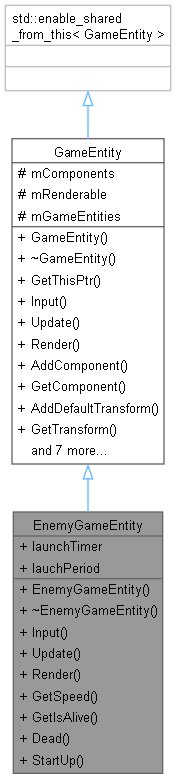
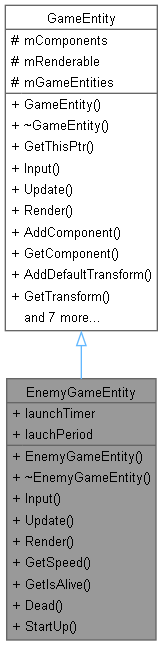
Hierachy.jpg

Changed region(s): [[0.0, 0.0, 0.9816, 1.0], [0.6442, 0.3411, 0.7669, 0.4341], [0.7975, 0.4031, 0.8282, 0.4341]]

diff --git a/hierarchy.html b/hierarchy.html
@@ -77,24 +77,23 @@ $(function() {
 <div class="textblock">
 <p><a href="inherits.html">Go to the graphical class hierarchy</a></p>
 This inheritance list is sorted roughly, but not completely, alphabetically:</div><div class="directory">
-<div class="levels">[detail level <span onclick="javascript:dynsection.toggleLevel(1);">1</span><span onclick="javascript:dynsection.toggleLevel(2);">2</span><span onclick="javascript:dynsection.toggleLevel(3);">3</span>]</div><table class="directory">
+<div class="levels">[detail level <span onclick="javascript:dynsection.toggleLevel(1);">1</span><span onclick="javascript:dynsection.toggleLevel(2);">2</span>]</div><table class="directory">
 <tr id="row_0_" class="even"><td class="entry"><span style="width:0px;display:inline-block;">&#160;</span><span id="arr_0_" class="arrow" onclick="dynsection.toggleFolder('0_')">&#9660;</span><span class="icona"><span class="icon">C</span></span><a class="el" href="struct_component.html" target="_self">Component</a></td><td class="desc">Abstract base class for components in a game entity-component system </td></tr>
 <tr id="row_0_0_" class="odd"><td class="entry"><span style="width:32px;display:inline-block;">&#160;</span><span class="icona"><span class="icon">C</span></span><a class="el" href="struct_collision2_d_component.html" target="_self">Collision2DComponent</a></td><td class="desc"><a class="el" href="struct_component.html" title="Abstract base class for components in a game entity-component system.">Component</a> for handling 2D collisions in a game environment </td></tr>
 <tr id="row_0_1_" class="even"><td class="entry"><span style="width:32px;display:inline-block;">&#160;</span><span class="icona"><span class="icon">C</span></span><a class="el" href="struct_input_component.html" target="_self">InputComponent</a></td><td class="desc"><a class="el" href="struct_component.html" title="Abstract base class for components in a game entity-component system.">Component</a> for handling input for a game entity </td></tr>
 <tr id="row_0_2_" class="odd"><td class="entry"><span style="width:32px;display:inline-block;">&#160;</span><span class="icona"><span class="icon">C</span></span><a class="el" href="struct_texture_component.html" target="_self">TextureComponent</a></td><td class="desc">Manages a texture for a game entity, handling its loading, updating, and rendering </td></tr>
 <tr id="row_0_3_" class="even"><td class="entry"><span style="width:32px;display:inline-block;">&#160;</span><span class="icona"><span class="icon">C</span></span><a class="el" href="struct_transform_component.html" target="_self">TransformComponent</a></td><td class="desc">Manages the position, size, and bounding rectangle of a game entity </td></tr>
-<tr id="row_1_" class="odd"><td class="entry"><span style="width:0px;display:inline-block;">&#160;</span><span id="arr_1_" class="arrow" onclick="dynsection.toggleFolder('1_')">&#9660;</span><span class="icona"><span class="icon">C</span></span><b>std::enable_shared_from_this</b></td><td class="desc"></td></tr>
-<tr id="row_1_0_" class="even"><td class="entry"><span style="width:16px;display:inline-block;">&#160;</span><span id="arr_1_0_" class="arrow" onclick="dynsection.toggleFolder('1_0_')">&#9660;</span><span class="icona"><span class="icon">C</span></span><a class="el" href="struct_game_entity.html" target="_self">GameEntity</a></td><td class="desc">Base class for all game entities, supporting components and common game object functions </td></tr>
-<tr id="row_1_0_0_" class="odd"><td class="entry"><span style="width:48px;display:inline-block;">&#160;</span><span class="icona"><span class="icon">C</span></span><a class="el" href="struct_enemy_game_entity.html" target="_self">EnemyGameEntity</a></td><td class="desc">Represents an enemy in the game, handling its behavior, rendering, and state </td></tr>
-<tr id="row_1_0_1_" class="even"><td class="entry"><span style="width:48px;display:inline-block;">&#160;</span><span class="icona"><span class="icon">C</span></span><a class="el" href="struct_player_game_entity.html" target="_self">PlayerGameEntity</a></td><td class="desc">Represents the player entity in the game, handling player-specific behavior </td></tr>
-<tr id="row_1_0_2_" class="odd"><td class="entry"><span style="width:48px;display:inline-block;">&#160;</span><span class="icona"><span class="icon">C</span></span><a class="el" href="struct_projectile.html" target="_self">Projectile</a></td><td class="desc">Represents a projectile in the game, handling its movement, rendering, and interactions </td></tr>
-<tr id="row_2_" class="even"><td class="entry"><span style="width:16px;display:inline-block;">&#160;</span><span class="icona"><span class="icon">C</span></span><a class="el" href="class_game_config_editor_1_1_game_config_editor.html" target="_self">GameConfigEditor.GameConfigEditor</a></td><td class="desc"></td></tr>
-<tr id="row_3_" class="odd"><td class="entry"><span style="width:16px;display:inline-block;">&#160;</span><span class="icona"><span class="icon">C</span></span><a class="el" href="struct_game_engine.html" target="_self">GameEngine</a></td><td class="desc">Main engine for managing game state, entities, rendering, and game loop </td></tr>
-<tr id="row_4_" class="even"><td class="entry"><span style="width:16px;display:inline-block;">&#160;</span><span class="icona"><span class="icon">C</span></span><a class="el" href="struct_resource_manager.html" target="_self">ResourceManager</a></td><td class="desc">Manages game resources, specifically textures, ensuring that each texture is loaded and managed efficiently </td></tr>
-<tr id="row_5_" class="odd"><td class="entry"><span style="width:16px;display:inline-block;">&#160;</span><span class="icona"><span class="icon">C</span></span><a class="el" href="struct_scene.html" target="_self">Scene</a></td><td class="desc">Represents a single scene in the game, handling its entities, lifecycle, and rendering </td></tr>
-<tr id="row_6_" class="even"><td class="entry"><span style="width:16px;display:inline-block;">&#160;</span><span class="icona"><span class="icon">C</span></span><a class="el" href="class_game_1_1_shooter_game.html" target="_self">Game.ShooterGame</a></td><td class="desc"></td></tr>
-<tr id="row_7_" class="odd"><td class="entry"><span style="width:16px;display:inline-block;">&#160;</span><span class="icona"><span class="icon">C</span></span><a class="el" href="struct_texture_functor_deleter.html" target="_self">TextureFunctorDeleter</a></td><td class="desc">Functor for properly deallocating SDL textures </td></tr>
-<tr id="row_8_" class="even"><td class="entry"><span style="width:16px;display:inline-block;">&#160;</span><span class="icona"><span class="icon">C</span></span><a class="el" href="class_tile_map_editor_1_1_tile_map_editor.html" target="_self">TileMapEditor.TileMapEditor</a></td><td class="desc"></td></tr>
+<tr id="row_1_" class="odd"><td class="entry"><span style="width:16px;display:inline-block;">&#160;</span><span class="icona"><span class="icon">C</span></span><a class="el" href="class_game_config_editor_1_1_game_config_editor.html" target="_self">GameConfigEditor.GameConfigEditor</a></td><td class="desc"></td></tr>
+<tr id="row_2_" class="even"><td class="entry"><span style="width:16px;display:inline-block;">&#160;</span><span class="icona"><span class="icon">C</span></span><a class="el" href="struct_game_engine.html" target="_self">GameEngine</a></td><td class="desc">Main engine for managing game state, entities, rendering, and game loop </td></tr>
+<tr id="row_3_" class="odd"><td class="entry"><span style="width:0px;display:inline-block;">&#160;</span><span id="arr_3_" class="arrow" onclick="dynsection.toggleFolder('3_')">&#9660;</span><span class="icona"><span class="icon">C</span></span><a class="el" href="struct_game_entity.html" target="_self">GameEntity</a></td><td class="desc">Base class for all game entities, supporting components and common game object functions </td></tr>
+<tr id="row_3_0_" class="even"><td class="entry"><span style="width:32px;display:inline-block;">&#160;</span><span class="icona"><span class="icon">C</span></span><a class="el" href="struct_enemy_game_entity.html" target="_self">EnemyGameEntity</a></td><td class="desc">Represents an enemy in the game, handling its behavior, rendering, and state </td></tr>
+<tr id="row_3_1_" class="odd"><td class="entry"><span style="width:32px;display:inline-block;">&#160;</span><span class="icona"><span class="icon">C</span></span><a class="el" href="struct_player_game_entity.html" target="_self">PlayerGameEntity</a></td><td class="desc">Represents the player entity in the game, handling player-specific behavior </td></tr>
+<tr id="row_3_2_" class="even"><td class="entry"><span style="width:32px;display:inline-block;">&#160;</span><span class="icona"><span class="icon">C</span></span><a class="el" href="struct_projectile.html" target="_self">Projectile</a></td><td class="desc">Represents a projectile in the game, handling its movement, rendering, and interactions </td></tr>
+<tr id="row_4_" class="odd"><td class="entry"><span style="width:16px;display:inline-block;">&#160;</span><span class="icona"><span class="icon">C</span></span><a class="el" href="struct_resource_manager.html" target="_self">ResourceManager</a></td><td class="desc">Manages game resources, specifically textures, ensuring that each texture is loaded and managed efficiently </td></tr>
+<tr id="row_5_" class="even"><td class="entry"><span style="width:16px;display:inline-block;">&#160;</span><span class="icona"><span class="icon">C</span></span><a class="el" href="struct_scene.html" target="_self">Scene</a></td><td class="desc">Represents a single scene in the game, handling its entities, lifecycle, and rendering </td></tr>
+<tr id="row_6_" class="odd"><td class="entry"><span style="width:16px;display:inline-block;">&#160;</span><span class="icona"><span class="icon">C</span></span><a class="el" href="class_game_1_1_shooter_game.html" target="_self">Game.ShooterGame</a></td><td class="desc"></td></tr>
+<tr id="row_7_" class="even"><td class="entry"><span style="width:16px;display:inline-block;">&#160;</span><span class="icona"><span class="icon">C</span></span><a class="el" href="struct_texture_functor_deleter.html" target="_self">TextureFunctorDeleter</a></td><td class="desc">Functor for properly deallocating SDL textures </td></tr>
+<tr id="row_8_" class="odd"><td class="entry"><span style="width:16px;display:inline-block;">&#160;</span><span class="icona"><span class="icon">C</span></span><a class="el" href="class_tile_map_editor_1_1_tile_map_editor.html" target="_self">TileMapEditor.TileMapEditor</a></td><td class="desc"></td></tr>
 </table>
 </div><!-- directory -->
 </div><!-- contents -->

diff --git a/inherits.html b/inherits.html
@@ -105,27 +105,25 @@ $(function() {
 <area shape="rect" href="struct_game_engine.html" title="Main engine for managing game state, entities, rendering, and game loop." alt="" coords="5,5,102,32"/>
 </map>
 </td></tr>
-<tr><td><img src="inherit_graph_4.png" border="0" usemap="#a_resource_manager" alt=""/>
+<tr><td><img src="inherit_graph_4.png" border="0" usemap="#a_game_entity" alt=""/>
+<map name="a_game_entity" id="a_game_entity">
+<area shape="rect" href="struct_game_entity.html" title="Base class for all game entities, supporting components and common game object functions." alt="" coords="5,56,96,83"/>
+<area shape="rect" href="struct_enemy_game_entity.html" title="Represents an enemy in the game, handling its behavior, rendering, and state." alt="" coords="144,5,275,32"/>
+<area shape="poly" title=" " alt="" coords="108,48,164,30,166,35,110,53"/>
+<area shape="rect" href="struct_player_game_entity.html" title="Represents the player entity in the game, handling player&#45;specific behavior." alt="" coords="146,56,273,83"/>
+<area shape="poly" title=" " alt="" coords="111,67,145,67,145,72,111,72"/>
+<area shape="rect" href="struct_projectile.html" title="Represents a projectile in the game, handling its movement, rendering, and interactions." alt="" coords="172,107,247,133"/>
+<area shape="poly" title=" " alt="" coords="110,85,172,106,171,111,108,90"/>
+</map>
+</td></tr>
+<tr><td><img src="inherit_graph_5.png" border="0" usemap="#a_resource_manager" alt=""/>
 <map name="a_resource_manager" id="a_resource_manager">
 <area shape="rect" href="struct_resource_manager.html" title="Manages game resources, specifically textures, ensuring that each texture is loaded and managed effic..." alt="" coords="5,5,132,32"/>
 </map>
 </td></tr>
-<tr><td><img src="inherit_graph_5.png" border="0" usemap="#a_scene" alt=""/>
+<tr><td><img src="inherit_graph_6.png" border="0" usemap="#a_scene" alt=""/>
 <map name="a_scene" id="a_scene">
 <area shape="rect" href="struct_scene.html" title="Represents a single scene in the game, handling its entities, lifecycle, and rendering." alt="" coords="5,5,64,32"/>
-</map>
-</td></tr>
-<tr><td><img src="inherit_graph_6.png" border="0" usemap="#astd_1_1enable__shared__from__this" alt=""/>
-<map name="astd_1_1enable__shared__from__this" id="astd_1_1enable__shared__from__this">
-<area shape="rect" title=" " alt="" coords="5,48,137,91"/>
-<area shape="rect" href="struct_game_entity.html" title="Base class for all game entities, supporting components and common game object functions." alt="" coords="185,56,275,83"/>
-<area shape="poly" title=" " alt="" coords="152,67,184,67,184,72,152,72"/>
-<area shape="rect" href="struct_enemy_game_entity.html" title="Represents an enemy in the game, handling its behavior, rendering, and state." alt="" coords="323,5,454,32"/>
-<area shape="poly" title=" " alt="" coords="288,48,344,30,345,35,289,53"/>
-<area shape="rect" href="struct_player_game_entity.html" title="Represents the player entity in the game, handling player&#45;specific behavior." alt="" coords="325,56,452,83"/>
-<area shape="poly" title=" " alt="" coords="291,67,325,67,325,72,291,72"/>
-<area shape="rect" href="struct_projectile.html" title="Represents a projectile in the game, handling its movement, rendering, and interactions." alt="" coords="351,107,426,133"/>
-<area shape="poly" title=" " alt="" coords="289,85,352,106,350,111,287,90"/>
 </map>
 </td></tr>
 <tr><td><img src="inherit_graph_7.png" border="0" usemap="#a_texture_functor_deleter" alt=""/>

diff --git a/struct_game_entity.html b/struct_game_entity.html
@@ -88,15 +88,13 @@ Inheritance diagram for GameEntity:</div>
 <div class="dyncontent">
 <div class="center"><img src="struct_game_entity__inherit__graph.png" border="0" usemap="#a_game_entity_inherit__map" alt="Inheritance graph"/></div>
 <map name="a_game_entity_inherit__map" id="a_game_entity_inherit__map">
-<area shape="rect" title="Base class for all game entities, supporting components and common game object functions." alt="" coords="176,139,328,464"/>
-<area shape="rect" href="struct_enemy_game_entity.html" title="Represents an enemy in the game, handling its behavior, rendering, and state." alt="" coords="5,512,155,773"/>
-<area shape="poly" title=" " alt="" coords="172,467,148,513,143,511,167,465"/>
-<area shape="rect" href="struct_player_game_entity.html" title="Represents the player entity in the game, handling player&#45;specific behavior." alt="" coords="179,565,325,720"/>
-<area shape="poly" title=" " alt="" coords="255,479,255,566,249,566,249,479"/>
-<area shape="rect" href="struct_projectile.html" title="Represents a projectile in the game, handling its movement, rendering, and interactions." alt="" coords="349,523,441,763"/>
-<area shape="poly" title=" " alt="" coords="328,476,351,532,346,534,323,478"/>
-<area shape="rect" title=" " alt="" coords="169,5,335,91"/>
-<area shape="poly" title=" " alt="" coords="255,105,255,139,249,139,249,105"/>
+<area shape="rect" title="Base class for all game entities, supporting components and common game object functions." alt="" coords="176,5,328,331"/>
+<area shape="rect" href="struct_enemy_game_entity.html" title="Represents an enemy in the game, handling its behavior, rendering, and state." alt="" coords="5,379,155,640"/>
+<area shape="poly" title=" " alt="" coords="172,334,148,380,143,378,167,331"/>
+<area shape="rect" href="struct_player_game_entity.html" title="Represents the player entity in the game, handling player&#45;specific behavior." alt="" coords="179,432,325,587"/>
+<area shape="poly" title=" " alt="" coords="255,345,255,432,249,432,249,345"/>
+<area shape="rect" href="struct_projectile.html" title="Represents a projectile in the game, handling its movement, rendering, and interactions." alt="" coords="349,389,441,629"/>
+<area shape="poly" title=" " alt="" coords="328,343,351,398,346,400,323,345"/>
 </map>
 </div>
 <div class="dynheader">
@@ -104,9 +102,7 @@ Collaboration diagram for GameEntity:</div>
 <div class="dyncontent">
 <div class="center"><img src="struct_game_entity__coll__graph.png" border="0" usemap="#a_game_entity_coll__map" alt="Collaboration graph"/></div>
 <map name="a_game_entity_coll__map" id="a_game_entity_coll__map">
-<area shape="rect" title="Base class for all game entities, supporting components and common game object functions." alt="" coords="12,139,164,464"/>
-<area shape="rect" title=" " alt="" coords="5,5,171,91"/>
-<area shape="poly" title=" " alt="" coords="91,105,91,139,85,139,85,105"/>
+<area shape="rect" title="Base class for all game entities, supporting components and common game object functions." alt="" coords="5,5,157,331"/>
 </map>
 </div>
 <table class="memberdecls">

diff --git a/struct_player_game_entity.html b/struct_player_game_entity.html
@@ -87,11 +87,9 @@ Inheritance diagram for PlayerGameEntity:</div>
 <div class="dyncontent">
 <div class="center"><img src="struct_player_game_entity__inherit__graph.png" border="0" usemap="#a_player_game_entity_inherit__map" alt="Inheritance graph"/></div>
 <map name="a_player_game_entity_inherit__map" id="a_player_game_entity_inherit__map">
-<area shape="rect" title="Represents the player entity in the game, handling player&#45;specific behavior." alt="" coords="15,512,161,667"/>
-<area shape="rect" href="struct_game_entity.html" title="Base class for all game entities, supporting components and common game object functions." alt="" coords="12,139,164,464"/>
-<area shape="poly" title=" " alt="" coords="91,479,91,512,85,512,85,479"/>
-<area shape="rect" title=" " alt="" coords="5,5,171,91"/>
-<area shape="poly" title=" " alt="" coords="91,105,91,139,85,139,85,105"/>
+<area shape="rect" title="Represents the player entity in the game, handling player&#45;specific behavior." alt="" coords="9,379,154,533"/>
+<area shape="rect" href="struct_game_entity.html" title="Base class for all game entities, supporting components and common game object functions." alt="" coords="5,5,157,331"/>
+<area shape="poly" title=" " alt="" coords="84,346,84,379,79,379,79,346"/>
 </map>
 </div>
 <div class="dynheader">
@@ -99,11 +97,9 @@ Collaboration diagram for PlayerGameEntity:</div>
 <div class="dyncontent">
 <div class="center"><img src="struct_player_game_entity__coll__graph.png" border="0" usemap="#a_player_game_entity_coll__map" alt="Collaboration graph"/></div>
 <map name="a_player_game_entity_coll__map" id="a_player_game_entity_coll__map">
-<area shape="rect" title="Represents the player entity in the game, handling player&#45;specific behavior." alt="" coords="15,512,161,667"/>
-<area shape="rect" href="struct_game_entity.html" title="Base class for all game entities, supporting components and common game object functions." alt="" coords="12,139,164,464"/>
-<area shape="poly" title=" " alt="" coords="91,479,91,512,85,512,85,479"/>
-<area shape="rect" title=" " alt="" coords="5,5,171,91"/>
-<area shape="poly" title=" " alt="" coords="91,105,91,139,85,139,85,105"/>
+<area shape="rect" title="Represents the player entity in the game, handling player&#45;specific behavior." alt="" coords="9,379,154,533"/>
+<area shape="rect" href="struct_game_entity.html" title="Base class for all game entities, supporting components and common game object functions." alt="" coords="5,5,157,331"/>
+<area shape="poly" title=" " alt="" coords="84,346,84,379,79,379,79,346"/>
 </map>
 </div>
 <table class="memberdecls">

diff --git a/struct_enemy_game_entity.html b/struct_enemy_game_entity.html
@@ -88,11 +88,9 @@ Inheritance diagram for EnemyGameEntity:</div>
 <div class="dyncontent">
 <div class="center"><img src="struct_enemy_game_entity__inherit__graph.png" border="0" usemap="#a_enemy_game_entity_inherit__map" alt="Inheritance graph"/></div>
 <map name="a_enemy_game_entity_inherit__map" id="a_enemy_game_entity_inherit__map">
-<area shape="rect" title="Represents an enemy in the game, handling its behavior, rendering, and state." alt="" coords="13,512,163,773"/>
-<area shape="rect" href="struct_game_entity.html" title="Base class for all game entities, supporting components and common game object functions." alt="" coords="12,139,164,464"/>
-<area shape="poly" title=" " alt="" coords="91,479,91,512,85,512,85,479"/>
-<area shape="rect" title=" " alt="" coords="5,5,171,91"/>
-<area shape="poly" title=" " alt="" coords="91,105,91,139,85,139,85,105"/>
+<area shape="rect" title="Represents an enemy in the game, handling its behavior, rendering, and state." alt="" coords="7,379,156,640"/>
+<area shape="rect" href="struct_game_entity.html" title="Base class for all game entities, supporting components and common game object functions." alt="" coords="5,5,157,331"/>
+<area shape="poly" title=" " alt="" coords="84,345,84,379,79,379,79,345"/>
 </map>
 </div>
 <div class="dynheader">
@@ -100,11 +98,9 @@ Collaboration diagram for EnemyGameEntity:</div>
 <div class="dyncontent">
 <div class="center"><img src="struct_enemy_game_entity__coll__graph.png" border="0" usemap="#a_enemy_game_entity_coll__map" alt="Collaboration graph"/></div>
 <map name="a_enemy_game_entity_coll__map" id="a_enemy_game_entity_coll__map">
-<area shape="rect" title="Represents an enemy in the game, handling its behavior, rendering, and state." alt="" coords="13,512,163,773"/>
-<area shape="rect" href="struct_game_entity.html" title="Base class for all game entities, supporting components and common game object functions." alt="" coords="12,139,164,464"/>
-<area shape="poly" title=" " alt="" coords="91,479,91,512,85,512,85,479"/>
-<area shape="rect" title=" " alt="" coords="5,5,171,91"/>
-<area shape="poly" title=" " alt="" coords="91,105,91,139,85,139,85,105"/>
+<area shape="rect" title="Represents an enemy in the game, handling its behavior, rendering, and state." alt="" coords="7,379,156,640"/>
+<area shape="rect" href="struct_game_entity.html" title="Base class for all game entities, supporting components and common game object functions." alt="" coords="5,5,157,331"/>
+<area shape="poly" title=" " alt="" coords="84,345,84,379,79,379,79,345"/>
 </map>
 </div>
 <table class="memberdecls">

diff --git a/struct_projectile.html b/struct_projectile.html
@@ -87,11 +87,9 @@ Inheritance diagram for Projectile:</div>
 <div class="dyncontent">
 <div class="center"><img src="struct_projectile__inherit__graph.png" border="0" usemap="#a_projectile_inherit__map" alt="Inheritance graph"/></div>
 <map name="a_projectile_inherit__map" id="a_projectile_inherit__map">
-<area shape="rect" title="Represents a projectile in the game, handling its movement, rendering, and interactions." alt="" coords="42,512,134,752"/>
-<area shape="rect" href="struct_game_entity.html" title="Base class for all game entities, supporting components and common game object functions." alt="" coords="12,139,164,464"/>
-<area shape="poly" title=" " alt="" coords="91,479,91,512,85,512,85,479"/>
-<area shape="rect" title=" " alt="" coords="5,5,171,91"/>
-<area shape="poly" title=" " alt="" coords="91,105,91,139,85,139,85,105"/>
+<area shape="rect" title="Represents a projectile in the game, handling its movement, rendering, and interactions." alt="" coords="35,379,127,619"/>
+<area shape="rect" href="struct_game_entity.html" title="Base class for all game entities, supporting components and common game object functions." alt="" coords="5,5,157,331"/>
+<area shape="poly" title=" " alt="" coords="84,346,84,379,79,379,79,346"/>
 </map>
 </div>
 <div class="dynheader">
@@ -99,11 +97,9 @@ Collaboration diagram for Projectile:</div>
 <div class="dyncontent">
 <div class="center"><img src="struct_projectile__coll__graph.png" border="0" usemap="#a_projectile_coll__map" alt="Collaboration graph"/></div>
 <map name="a_projectile_coll__map" id="a_projectile_coll__map">
-<area shape="rect" title="Represents a projectile in the game, handling its movement, rendering, and interactions." alt="" coords="42,512,134,752"/>
-<area shape="rect" href="struct_game_entity.html" title="Base class for all game entities, supporting components and common game object functions." alt="" coords="12,139,164,464"/>
-<area shape="poly" title=" " alt="" coords="91,479,91,512,85,512,85,479"/>
-<area shape="rect" title=" " alt="" coords="5,5,171,91"/>
-<area shape="poly" title=" " alt="" coords="91,105,91,139,85,139,85,105"/>
+<area shape="rect" title="Represents a projectile in the game, handling its movement, rendering, and interactions." alt="" coords="35,379,127,619"/>
+<area shape="rect" href="struct_game_entity.html" title="Base class for all game entities, supporting components and common game object functions." alt="" coords="5,5,157,331"/>
+<area shape="poly" title=" " alt="" coords="84,346,84,379,79,379,79,346"/>
 </map>
 </div>
 <table class="memberdecls">

diff --git a/index.html b/index.html
@@ -78,18 +78,18 @@ $(function() {
 Introduction</h1>
 <p>Welcome to the documentation for the Game Engine. This engine is designed to demonstrate the powerful capabilities of data-driven game development, combining flexibility with robust performance to support complex game designs.</p>
 <p>This documentation covers the project's features, setup, and provides insights into its inner workings.</p>
+<h1><a class="anchor" id="website"></a>
+website</h1>
+<p>You can find the website in this [link]()</p>
 <h2><a class="anchor" id="video_trailer"></a>
 Video Trailer</h2>
 <p>Here is a 2-3 minute video trailer showcasing the features of our game engine, highlighting its data-driven nature and the tools used during development:</p>
 <p> 
-<iframe width="560" height="315" src="https://www.youtube.com/embed/paCKZXWQ2ZQ" frameborder="0" allow="accelerometer; autoplay; gyroscope; picture-in-picture" allowfullscreen></iframe>
-</p>
-<p>Can also access through this link:
-  <a href="https://youtu.be/96dN6qqGsI0?si=EUVwwLUBaiAOqJuE">here</a>
+<iframe width="560" height="315" src="https://www.youtube.com/embed/paCKZXWQ2ZQ" frameborder="0" allow="accelerometer; autoplay; encrypted-media; gyroscope; picture-in-picture" allowfullscreen></iframe>
 </p>
 <h1><a class="anchor" id="docs_sec"></a>
 Documentation Link</h1>
-<p>Access the full Doxygen-generated documentation <a href="https://pixelpandacode.github.io/MyGameEngineDocs/">here</a>.</p>
+<p>Access the full Doxygen-generated documentation <a href="https://pixelpandacode.github.io/MyGameEngineDocs/index.html">here</a>.</p>
 <h1><a class="anchor" id="architecture_sec"></a>
 Engine Architecture</h1>
 <p>Here is an image depicting the architecture of our game engine:<a href="https://pixelpandacode.github.io/MyGameEngineDocs/inherits.html">link</a>  

diff --git a/_game_entity_8hpp_source.html b/_game_entity_8hpp_source.html
@@ -98,7 +98,7 @@ $(function() { codefold.init(0); });
 <div class="line"><a id="l00013" name="l00013"></a><span class="lineno">   13</span><span class="preprocessor">#include &quot;Collision2DComponent.hpp&quot;</span></div>
 <div class="line"><a id="l00014" name="l00014"></a><span class="lineno">   14</span> </div>
 <div class="foldopen" id="foldopen00023" data-start="{" data-end="};">
-<div class="line"><a id="l00023" name="l00023"></a><span class="lineno"><a class="line" href="struct_game_entity.html">   23</a></span><span class="keyword">struct </span><a class="code hl_struct" href="struct_game_entity.html">GameEntity</a> : <span class="keyword">public</span> std::enable_shared_from_this&lt;GameEntity&gt; {</div>
+<div class="line"><a id="l00023" name="l00023"></a><span class="lineno"><a class="line" href="struct_game_entity.html">   23</a></span><span class="keyword">struct </span><a class="code hl_struct" href="struct_game_entity.html">GameEntity</a> {</div>
 <div class="line"><a id="l00024" name="l00024"></a><span class="lineno">   24</span> </div>
 <div class="line"><a id="l00028" name="l00028"></a><span class="lineno"><a class="line" href="struct_game_entity.html#a43e4841110c2de7e207d25cd31573616">   28</a></span>    <a class="code hl_function" href="struct_game_entity.html#a43e4841110c2de7e207d25cd31573616">GameEntity</a>();</div>
 <div class="line"><a id="l00029" name="l00029"></a><span class="lineno">   29</span> </div>
